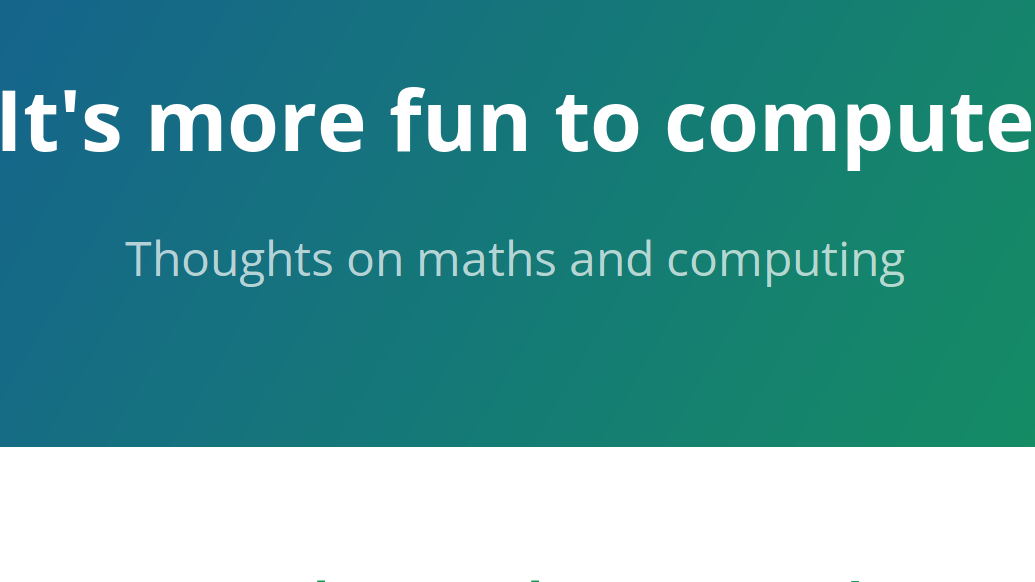
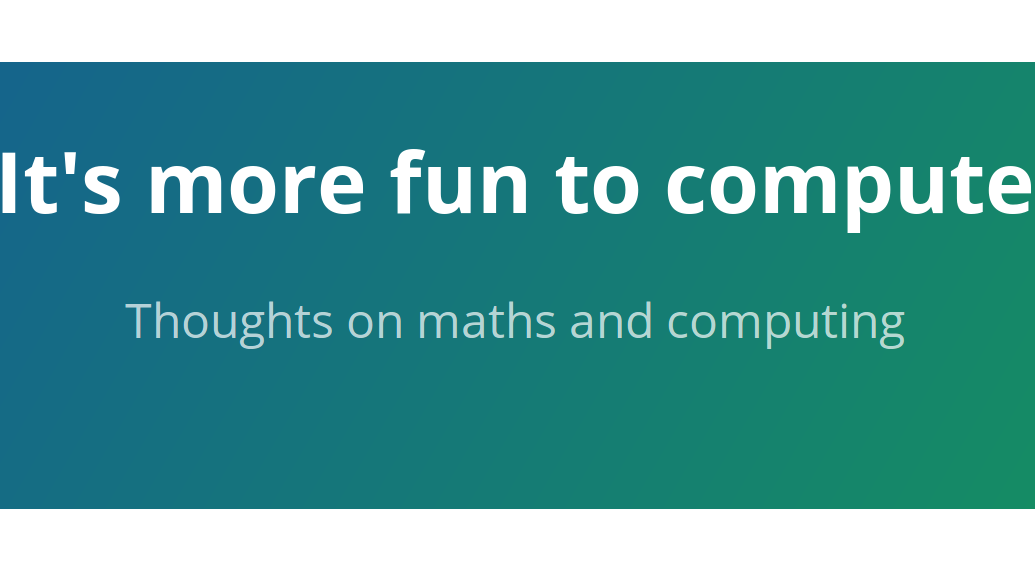
Minor revisions

diff --git a/index.html b/index.html
@@ -1,7 +1,7 @@
 ---
 layout: default
 title: It's more fun to compute
-image: https://jwalton3141.github.io/assets/background2.png
+image: https://jwalton3141.github.io/assets/background.png
 ---
 
 <div id="home">

diff --git a/_posts/2017-12-22-Embed-Publication-Matplotlib-Latex.md b/_posts/2017-12-22-Embed-Publication-Matplotlib-Latex.md
@@ -104,24 +104,8 @@ If you desire to create a figure narrower than the textwidth you may use the fra
 fig, ax = plt.subplots(1, 1, figsize=set_size(width, fraction=0.5))
 ```
 
-You may find it useful to predefine widths which you use regularly to your ```set_size``` function. Examples could be the textwidth of your thesis document, a journal you submit to, or a beamer template. Your revised function may now look something like the one below.
+You may find it useful to predefine widths which you use regularly to your ```set_size``` function. Examples could be the textwidth of your thesis document, a journal you submit to, or a beamer template. Our ammended function may include:
 ```py
-def set_size(width, fraction=1):
-    """ Set aesthetic figure dimensions to avoid scaling in LaTex.
-
-    Parameters
-    ----------
-    width: float or string
-            Width in pts or a predefined size, 'thesis', 'beamer', 'pnas'
-    fraction: float
-            Fraction of the width which you wish the figure to occupy
-
-    Returns
-    -------
-    fig_dim: list
-            Dimensions of figure in inches
-    """
-    # If using a pre-defined width
     if width == 'thesis':
         width_pt = 426.79135
     elif width == 'beamer':
@@ -132,26 +116,53 @@ def set_size(width, fraction=1):
         width_pt = width
     # Width of figure
     fig_width_pt = width_pt * fraction
+```
 
-    # Convert from pt to inches
-    inches_per_pt = 1 / 72.27
+## Text rendering with LaTeX
 
-    # Golden ratio to set aesthetic figure height
-    golden_ratio = (5**.5 - 1) / 2
+To really make our figures blend with our document we need the font to match between our figure and the body of our text. [This topic is well-covered in matplotlib's documentation](https://matplotlib.org/users/usetex.html), though I decided to cover the topic here for completeness.
 
-    # Figure width in inches
-    fig_width_in = fig_width_pt * inches_per_pt
-    # Figure height in inches
-    fig_height_in = fig_width_in * golden_ratio
+We shall use LaTex to render the text in our figures by updating our [```rc settings```](http://matplotlib.org/users/customizing.html#the-matplotlibrc-file). This update can also be used to ensure that the document and figure use the same font sizes. The example below shows how to update ```rcParams``` to use LaTex to render your text:
+```py
+""" A simple example of creating a figure with text rendered in LaTex. """
 
-    fig_dim = [fig_width_in, fig_height_in]
+import numpy as np
+import matplotlib as mpl
+import matplotlib.pyplot as plt
+from my_plot import set_size
 
-    return fig_dim
+# Using seaborn's style
+plt.style.use('seaborn')
+width = 345
+
+nice_fonts = {
+        # Use LaTeX to write all text
+        "text.usetex": True,
+        "font.family": "serif",
+        # Use 10pt font in plots, to match 10pt font in document
+        "axes.labelsize": 10,
+        "font.size": 10,
+        # Make the legend/label fonts a little smaller
+        "legend.fontsize": 8,
+        "xtick.labelsize": 8,
+        "ytick.labelsize": 8,
+}
+
+mpl.rcParams.update(nice_fonts)
+
+x = np.linspace(0, 2*np.pi, 100)
+# Initialise figure instance
+fig, ax = plt.subplots(1, 1, figsize=set_size(width))
+# Plot
+ax.plot(x, np.sin(x))
+ax.set_xlim(0, 2*np.pi)
+ax.set_xlabel(r'$\theta$')
+ax.set_ylabel(r'$\sin{(\theta)}$')
 ```
 
 ## Save format
 
-When it comes to saving your now beautifully rendered figures - some file formats are better suited than others. If you are submitting to a journal it is essential that you first check which formats they will accept.
+Some file formats are better suited than others when saving your plots. If you are submitting to a journal it is essential that you first check which formats they will accept.
 
 I would strongly recommend the use of a file format which can store vector images. Vector images allow the reader to zoom into a plot indefinitely, without encountering any pixelation. This is not true for raster images. Examples of raster image formats are .png and .jpeg; examples of vector graphic formats are .svg and .pdf. If, for whatever reason, you wish to continue using raster graphics - [make sure to use .png and not .jpeg.](https://www.labnol.org/software/tutorials/jpeg-vs-png-image-quality-or-bandwidth/5385/)
 
@@ -201,52 +212,6 @@ The ```graphicx``` package may then be used to insert this figure into LaTex:
 
 \end{document}
 ```
-
-## Text rendering with LaTeX
-
-To really make our figures blend with our document we need the font to match between our figure and the body of our text. [This topic is well-covered in matplotlib's documentation](https://matplotlib.org/users/usetex.html), however I shall cover the topic here for completeness.
-
-We shall use LaTex to render the text in our figures by updating our [```rc settings```](http://matplotlib.org/users/customizing.html#the-matplotlibrc-file). This update can also be used to ensure that the document and figure use the same font sizes. Extending our earlier example we now have:
-```py
-""" A simple example of creating a figure and saving as a pdf, with text rendered with LaTex. """
-
-import numpy as np
-import matplotlib as mpl
-import matplotlib.pyplot as plt
-from my_plot import set_size
-
-# Using seaborn's style
-plt.style.use('seaborn')
-width = 345
-
-nice_fonts = {
-        # Use LaTeX to write all text
-        "text.usetex": True,
-        "font.family": "serif",
-        # Use 10pt font in plots
-        "axes.labelsize": 10,
-        "font.size": 10,
-        # Make the legend/label fonts a little smaller
-        "legend.fontsize": 8,
-        "xtick.labelsize": 8,
-        "ytick.labelsize": 8,
-}
-
-mpl.rcParams.update(nice_fonts)
-
-x = np.linspace(0, 2*np.pi, 100)
-# Initialise figure instance
-fig, ax = plt.subplots(1, 1, figsize=set_size(width))
-# Plot
-ax.plot(x, np.sin(x))
-ax.set_xlim(0, 2*np.pi)
-ax.set_xlabel(r'$\theta$')
-ax.set_ylabel(r'$\sin{(\theta)}$')
-
-plt.savefig('/path/to/directory/example_2.pdf', format='pdf', bbox_inches='tight')
-```
-
-The figure produced looks professional and aesthetically pleasing - it will also look great when embedded into a report.
 
 # Summary
 
